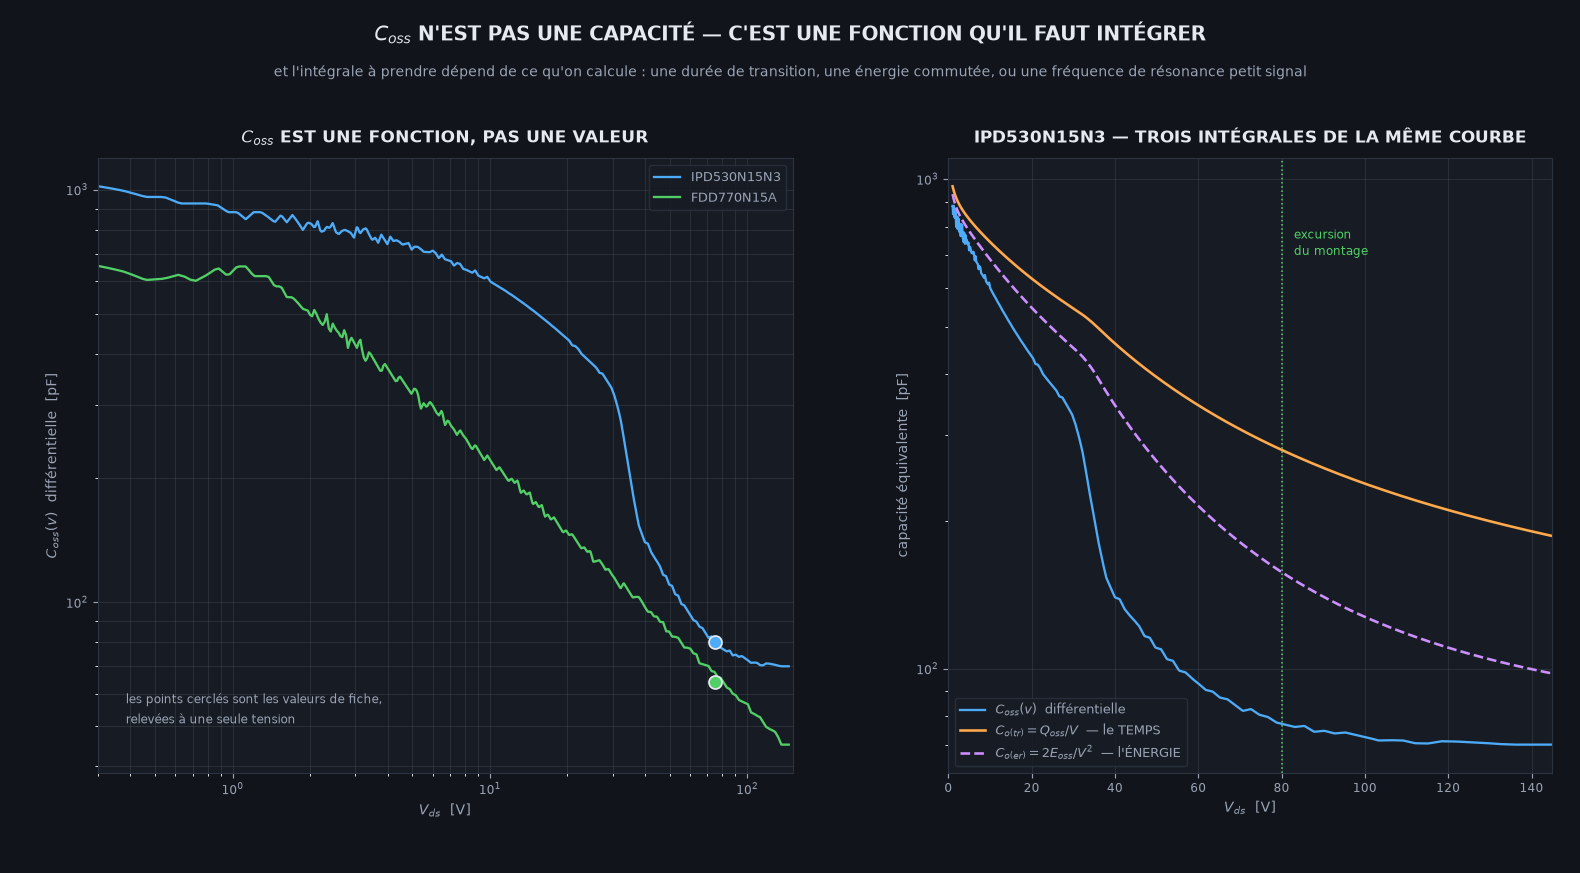
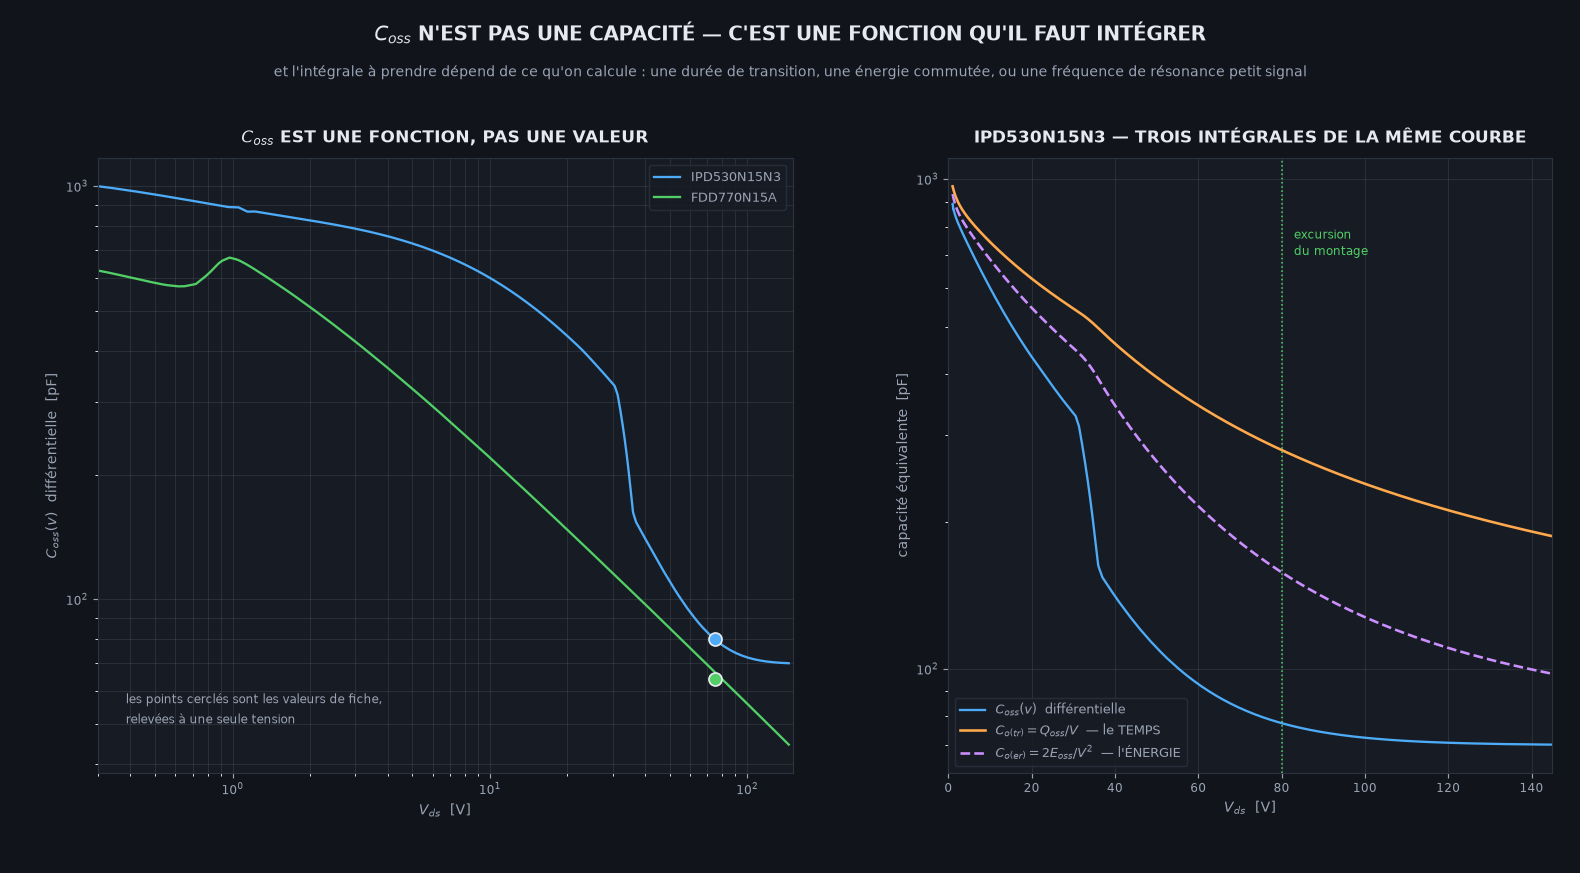
Les pics de la courbe Coss venaient de ma grille, pas du composant
Le concepteur a demande ce qu'etaient ces dents de scie. Reponse : une
faute de calcul que j'avais d'abord LISSEE au lieu de l'expliquer.

`diff(q[idx]) / diff(bords)` : `searchsorted` cale le NUMERATEUR sur des
echantillons, donc dQ est quantifie par multiples de I.dt, tandis que le
DENOMINATEUR reste la largeur nominale de l'intervalle, continue. L'ecart
vaut un echantillon :

  Vds        dV par pas    echantillons par intervalle
    3 V        11,6 mV              7,1
   30 V        60,1 mV             13,8
  140 V       285,2 mV             13,6

soit 7 a 14 % -- exactement l'amplitude de la dentelure observee.

CORRECTION : diviser par le dV DES MEMES ECHANTILLONS,
`diff(q[idx]) / diff(v[idx])`. Le bruit disparait, et la justesse
s'ameliore au passage -- Coss(75 V) passe de 78,7 a 80,0 pF contre 80 a
la fiche. Le lissage que j'avais pose est retire : il masquait une erreur
de 10 % sur la grandeur elle-meme.

Un bruit qu'on lisse est un bruit qu'on n'a pas compris.

Le .raw contient par ailleurs des instants DUPLIQUES (dt = 0 ps releve),
qui font diviser par zero tout quotient. Retires avant calcul.

CE QUI EST REEL, EN REVANCHE : le decrochement de Coss vers 30-35 V sur
l'IPD530N15N3. Il est lisse, monotone, etale sur plusieurs volts et porte
par des dizaines d'echantillons -- c'est le genou de depletion d'une
structure a tranchees. La FDD770N15A, de technologie differente, n'en a
pas.

RETEX sections O2 et O3.

diff --git a/04-emi/etapes/coss_integrales.py b/04-emi/etapes/coss_integrales.py
@@ -98,6 +98,10 @@ def courbe(nom: str):
     v = np.asarray(r.trace("V(nd)")).real
     m = (v >= 0.0) & (v < 149.0)
     t, v = t[m] - t[m][0], v[m]
+    # le .raw contient des instants DUPLIQUES (dt = 0 ps releve) :
+    # ils donnent des divisions par zero dans tout quotient.
+    u = np.concatenate(([True], np.diff(t) > 0))
+    t, v = t[u], v[u]
     # Qoss = I.t, exact et sans aucune derivee.
     q = 1e-3 * t
     # Eoss = integrale de v dQ, exacte elle aussi.
@@ -115,19 +119,22 @@ def courbe(nom: str):
     # une quantite qui peut s'annuler.
     bords = np.unique(np.concatenate([
         np.linspace(0.0, 2.0, 25), np.geomspace(2.0, 149.0, 160)]))
-    idx = np.searchsorted(v, bords)
-    idx = np.clip(idx, 0, len(v) - 1)
-    ok = np.diff(idx) > 0
-    vb = (bords[:-1][ok] + bords[1:][ok]) / 2
-    cb = np.diff(q[idx])[ok] / np.diff(bords)[ok]
-    # LISSAGE LEGER, et uniquement sur l'affichage de Coss. Le binning
-    # laisse un bruit de quelques pour cent qui vient de la finesse des
-    # intervalles, pas du composant. Qoss et Eoss, eux, ne sont PAS
-    # lisses : ce sont des integrales exactes de I.t, et c'est sur elles
-    # que reposent Co(tr) et Co(er).
-    k = np.ones(7) / 7
-    cb = np.convolve(cb, k, mode="same")
-    cb[:3], cb[-3:] = cb[3], cb[-4]
+    idx = np.unique(np.clip(np.searchsorted(v, bords), 0, len(v) - 1))
+    # DIVISER PAR LE dV DES MEMES ECHANTILLONS, pas par la largeur
+    # NOMINALE de l'intervalle.
+    #
+    # Premiere version : `diff(q[idx]) / diff(bords)`. `searchsorted`
+    # cale le numerateur sur des ECHANTILLONS -- dQ est donc quantifie
+    # par multiples de I.dt -- tandis que le denominateur reste continu.
+    # L'ecart entre les deux vaut un echantillon, soit 1/7 a 1/14 de
+    # l'intervalle selon la tension : 7 a 14 % de bruit, exactement ce
+    # qu'on voyait en dents de scie sur la figure. Ce n'etait pas une
+    # propriete du composant, c'etait ma grille.
+    vb = (v[idx[:-1]] + v[idx[1:]]) / 2
+    cb = np.diff(q[idx]) / np.diff(v[idx])
+    # PLUS AUCUN LISSAGE. Il servait a masquer le bruit de quantification
+    # ci-dessus ; la cause etant corrigee, lisser reviendrait a maquiller
+    # une courbe qui n'en a plus besoin.
     coss = np.interp(v, vb, cb)
     for ext in ("cir", "raw", "log", "op.raw"):
         f.with_suffix("." + ext).unlink(missing_ok=True)

diff --git a/04-emi/RETEX-erreurs.md b/04-emi/RETEX-erreurs.md
@@ -739,4 +739,46 @@ des paliers numériques où $dV/dt$ frôle zéro, et le quotient explosait à
 > $C_{oss} = dQ/dV$ se lit sur des **intervalles** de tension, jamais par
 > un quotient par une quantité qui peut s'annuler. $Q_{oss}$ et $E_{oss}$,
 > eux, s'obtiennent sans aucune dérivée : la rampe est à courant
+
+### O2 — Et le quotient doit porter sur les mêmes échantillons
+
+Deuxième version, par **binning** en tension : `diff(q[idx]) /
+diff(bords)`. Elle a supprimé les pics, et laissé une dentelure de 7 à
+14 % que j'ai d'abord **lissée** au lieu de l'expliquer.
+
+Le concepteur a demandé ce qu'étaient ces pics. Ils venaient de moi :
+`searchsorted` cale le **numérateur** sur des échantillons — $\Delta Q$
+est donc quantifié par multiples de $I\,\Delta t$ — tandis que le
+**dénominateur** reste la largeur nominale, continue. L'écart entre les
+deux vaut un échantillon, soit 1/7 à 1/14 de l'intervalle selon la
+tension.
+
+| $V_{ds}$ | dV par pas | échantillons par intervalle |
+|---|---|---|
+| 3 V | 11,6 mV | 7,1 |
+| 30 V | 60,1 mV | 13,8 |
+| 140 V | 285,2 mV | 13,6 |
+
+Soit 7 à 14 % — exactement l'amplitude de la dentelure.
+
+La correction tient en une ligne : diviser par le $dV$ **des mêmes
+échantillons**, `diff(q[idx]) / diff(v[idx])`. Le bruit disparaît, et
+la justesse s'améliore au passage — $C_{oss}$(75 V) passe de 78,7 à
+**80,0 pF** contre 80 à la fiche.
+
+> Un bruit qu'on lisse est un bruit qu'on n'a pas compris. Ici le
+> lissage masquait une erreur de 10 % sur la grandeur elle-même.
+
+Le `.raw` contient par ailleurs des instants **dupliqués** ($\Delta t$ =
+0 ps relevé) : tout quotient y divise par zéro. Ils sont désormais
+retirés avant calcul.
+
+### O3 — Ce qui, en revanche, est réel
+
+Le décrochement de $C_{oss}$ vers 30-35 V sur l'IPD530N15N3 **n'est pas
+du bruit** : il est lisse, monotone, étalé sur plusieurs volts et porté
+par des dizaines d'échantillons. C'est le genou de déplétion
+caractéristique d'une structure à tranchées — la FDD770N15A, de
+technologie différente, n'en a pas.
+
 > constant, donc $Q = I\,t$.
